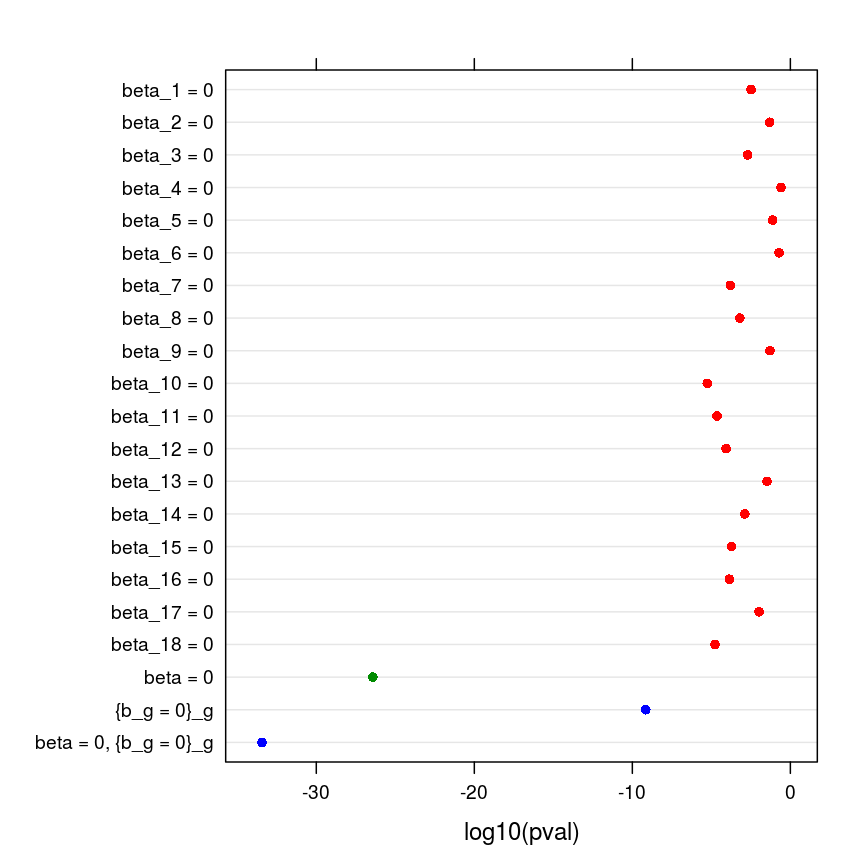
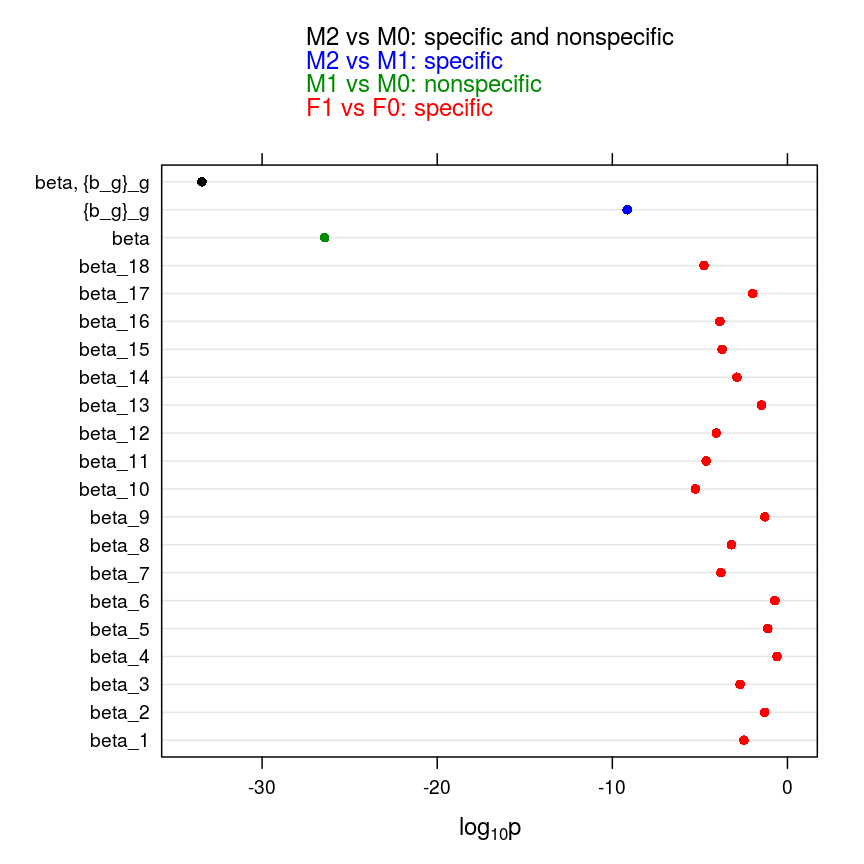
New prettified figures

diff --git a/_posts/2017-10-16-fixed-and-mixed-models.md b/_posts/2017-10-16-fixed-and-mixed-models.md
@@ -256,7 +256,7 @@ H <- rbind(H,
            data.frame(pval = anova(M$M1, M$M2)[2, "Pr(>Chisq)"],
                       col = tp$superpose.line$col[6],
                       ANOVA = "M1 vs M2",
-                      par = "b_g",
+                      par = "{b_g}_g",
                       H0 = "{b_g = 0}_g"),
            data.frame(pval = anova(M$M0, M$M2)[2, "Pr(>Chisq)"],
                       col = tp$superpose.line$col[6],
@@ -273,13 +273,16 @@ H <- rbind(H,
 ```
 
 ```r
-H$par <- factor(H$par, levels = rev(H$par), ordered = TRUE)
-H$H0 <- factor(H$H0, levels = rev(H$H0), ordered = TRUE)
+H$par <- factor(H$par, levels = H$par, ordered = TRUE)
+H$H0 <- factor(H$H0, levels = H$H0, ordered = TRUE)
 ```
 
 
 ```r
-dotplot(H0 ~ log10(pval), data = H, par.settings = list(dot.symbol = list(col = as.character(H$col))))
+dotplot(par ~ log10(pval), data = H,
+        auto.key = list(text = rev(c("F1 vs F0: specific", "M1 vs M0: nonspecific", "M2 vs M1: specific", "M2 vs M0: specific and nonspecific")), col = rev(c("red", "green4", "blue", "black")), points = FALSE),
+        xlab = expression(paste(log[10], "p")),
+        par.settings = list(dot.symbol = list(col = c(as.character(H$col)[-length(H$col)], "black"))))
 ```
 
 <img src="{{ site.baseurl }}/R/2017-10-16-fixed-and-mixed-models/figure/log-p-val-1.png" title="plot of chunk log-p-val" alt="plot of chunk log-p-val" width="700px" />
